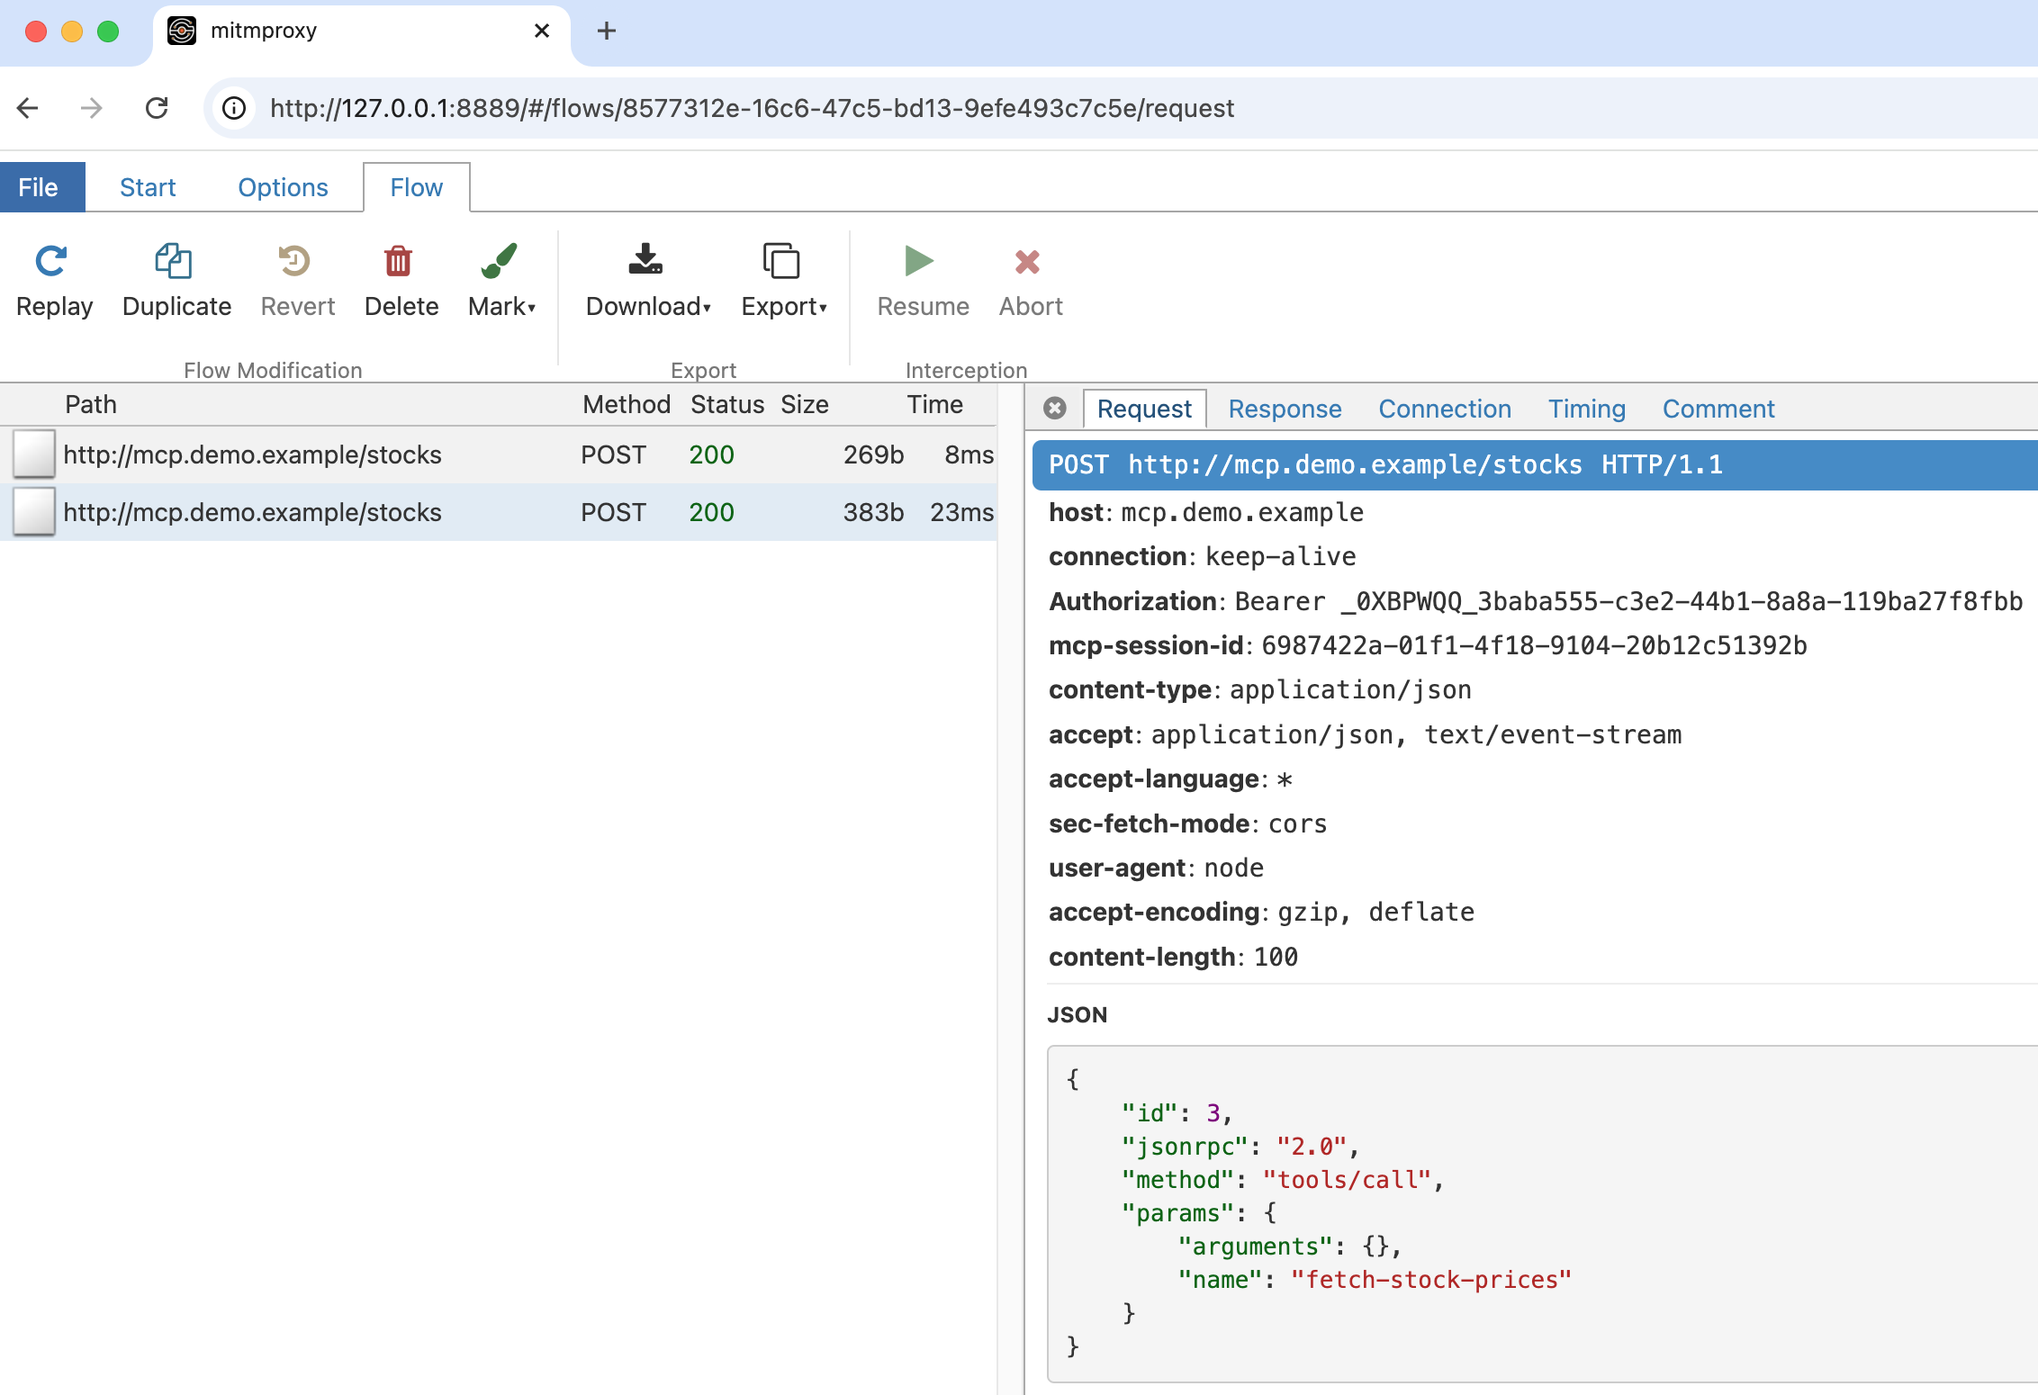
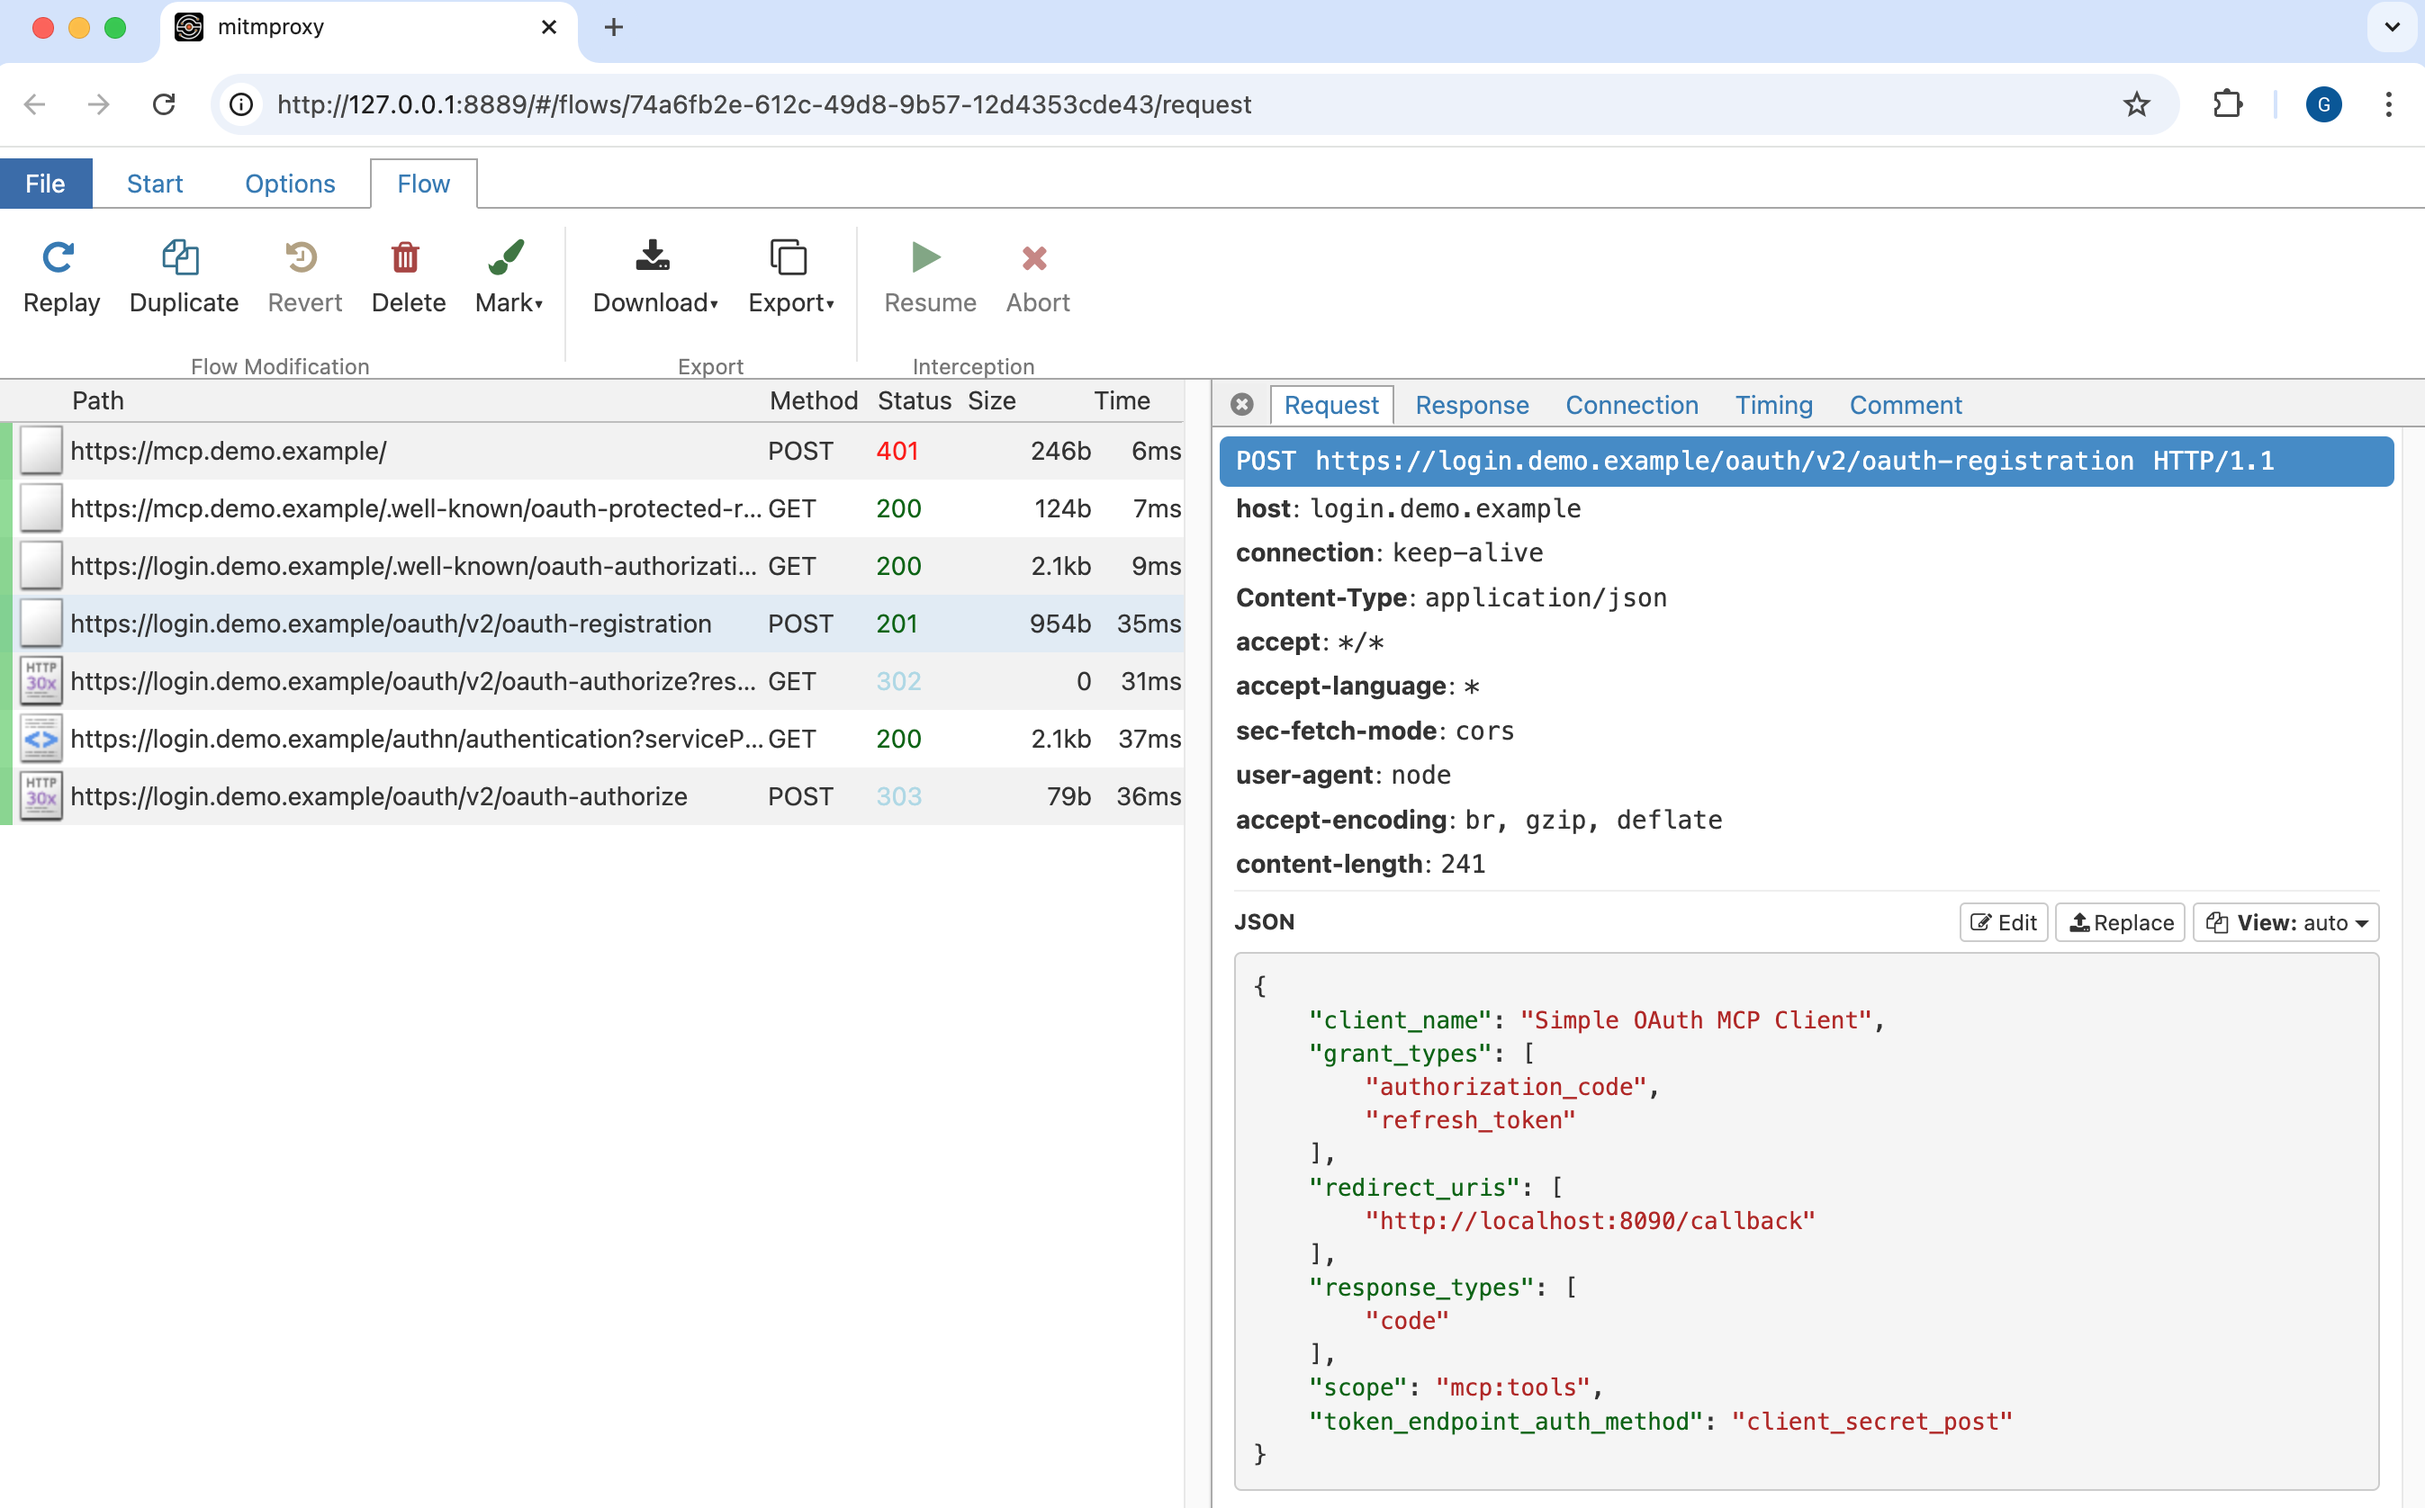
README updates

Changed region(s): [[0.0, 0.0, 1.0, 0.991], [0.8039, 0.5884, 0.9894, 0.6194]]

diff --git a/clients/typescript-sdk-client/README.md b/clients/typescript-sdk-client/README.md
@@ -55,3 +55,44 @@ mcp> call fetch-stock-prices
 [{"id":"COM1","name":Company 1","price":450.22},{"id":"COM2","name":"Company 2","price":250.62},{"id":"COM3","name":"Company 3","price":21.07}]
 ```
 
+## Capture HTTP Requests
+
+To [Debug HTTP Requests](../DEBUGGING.md) you can add the following to the TypeScript SDK's `package.json` dependencies.\
+Then run `npm install`:
+
+```text
+"undici": "^7.10.0"
+```
+
+Then add the following details to the top of `src/examples/client/simpleOAuthClient.ts`.\
+Re-run the client to capture all of its OAuth-related HTTP requests:
+
+```javascript
+import { setGlobalDispatcher, ProxyAgent } from 'undici';
+const dispatcher = new ProxyAgent({uri: new URL('http://127.0.0.1:8888').toString() });
+setGlobalDispatcher(dispatcher);
+```
+
+## DCR Request
+
+The example client sends the following DCR request details.\
+Note that the MCP authorization specification does not specify a default scope.\
+The client therefore uses a hard coded scope to start an MCP tools session.
+
+```json
+{
+    "client_name": "Simple OAuth MCP Client",
+    "grant_types": [
+        "authorization_code",
+        "refresh_token"
+    ],
+    "redirect_uris": [
+        "http://localhost:8090/callback"
+    ],
+    "response_types": [
+        "code"
+    ],
+    "scope": "mcp:tools",
+    "token_endpoint_auth_method": "client_secret_post"
+}
+```

diff --git a/clients/DEBUGGING.md b/clients/DEBUGGING.md
@@ -1,7 +1,6 @@
 # Debugging MCP Connections
 
-To debug MCP and OAuth messages, an HTTP proxy tool like [mitmproxy](https://mitmproxy.org/) can be very useful.\
-The following screenshot shows a streamable HTTP request when an MCP tool is called.
+To debug MCP and OAuth messages, an HTTP proxy tool like [mitmproxy](https://mitmproxy.org/) can be very useful:
 
 ![HTTP Proxy Capture](../images/http-proxy-capture.png)
 
@@ -21,27 +20,4 @@ Then run a command such as the following and open the browser at `http://localho
 
 ```bash
 mitmweb -p 8888 --web-port 8889 --ssl-insecure --script init.py
-```
-
-## Debugging Claude Code
-
-You can set these environment variables to capture traffic from Claude Code:
-
-```bash
-export HTTPS_PROXY=http://127.0.0.1:8888
-export NODE_TLS_REJECT_UNAUTHORIZED=0
-```
-
-## Debugging Node.js Code
-
-For some code bases you may need to explicitly wire up a proxy agent to a fetch library.\
-For example, you can add the following to the top of the TypeScript SDK Example OAuth client.
-
-```javascript
-import { setGlobalDispatcher, ProxyAgent } from 'undici';
-
-if (process.env.http_proxy) {
-  const dispatcher = new ProxyAgent({uri: new URL(process.env.http_proxy).toString() });
-  setGlobalDispatcher(dispatcher);
-}
 ```

diff --git a/clients/mcp-inspector/README.md b/clients/mcp-inspector/README.md
@@ -25,5 +25,4 @@ The client then provides a web user interface and the user can invoke API operat
 
 ![MCP inspector](../../images/inspector.png)
 
-
-
+## 
